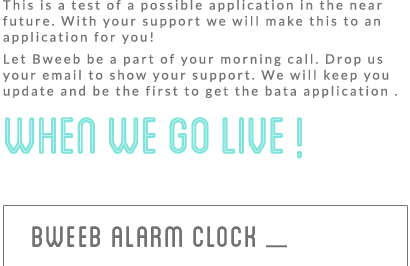
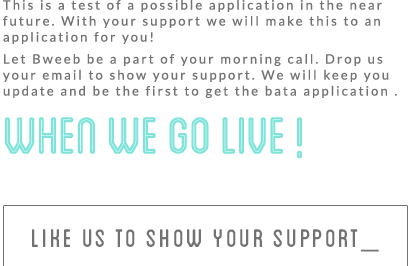
dadsadas

Changed region(s): [[0.0585, 0.8421, 0.878, 0.9323], [0.878, 0.9323, 0.9366, 0.9624]]

diff --git a/index.html b/index.html
@@ -52,16 +52,12 @@
 		  (function(){
 		     if (document.getElementById('facebook-jssdk')) {return;}
 		     var firstScriptElement = document.getElementsByTagName('script')[0];
-		     // Create a new script element and set its id
 		     var facebookJS = document.createElement('script'); 
 		     facebookJS.id = 'facebook-jssdk';
-
-		     // Set the new script's source to the source of the Facebook JS SDK
 		     facebookJS.src = '//connect.facebook.net/en_US/all.js';
-
-		     // Insert the Facebook JS SDK into the DOM
 		     firstScriptElement.parentNode.insertBefore(facebookJS, firstScriptElement);
 		   }());
+
 		</script>
 
     	<div class="mainHolder">
@@ -339,10 +335,11 @@ AAAAAAAAAAAAAAAAAAAAAAAAAAAAAA-->
 			<div class="WT-main"><img src="assest/images/Wt-content-main.png"></div>
 			<div class="email-holder">
 				<div class="facebook">
-					<div class="fb-like" data-href="http://bweeb.net" data-width="400" data-layout="button_count" data-action="like" data-show-faces="false" data-share="false"></div>
+					<div class="fb-like-box" data-href="https://www.facebook.com/BweebAlarm" data-colorscheme="light" data-show-faces="false" data-header="false" data-stream="false" data-show-border="false"></div>
 				</div>
-				<!-- <input type="text" placeholder="DROP US YOUR EMAIL TO SUPPORT ..."> -->
-				<div class="submit"></div>
+				<div class="submit">
+					<div class="fb-share-button" data-href="http://www.bweeb.net" data-type="box_count"></div>
+				</div>
 				<div class="clear"></div>
 				
 			</div>

diff --git a/assest/css/main.css b/assest/css/main.css
@@ -218,9 +218,9 @@ iframe{
 	z-index: 20;
 }
 .email-holder .facebook{
-	width: 324px;
+	width: 312px;
 	height: 63px;
-	padding-left: 15px;
+	padding-left: 27px;
 	font-size: 17px;
 	background-color: transparent;
 	border: 1px solid #727272;
@@ -238,11 +238,7 @@ iframe{
 	border-left: 0px;
 	width: 63px;
 	height: 63px;
-	background-image: url('../images/submit.png');
-	background-position: center;
-	cursor: pointer;
 	float: left;
-	background-repeat: no-repeat;
 }
 .WT-main{
 	height: 266px;
